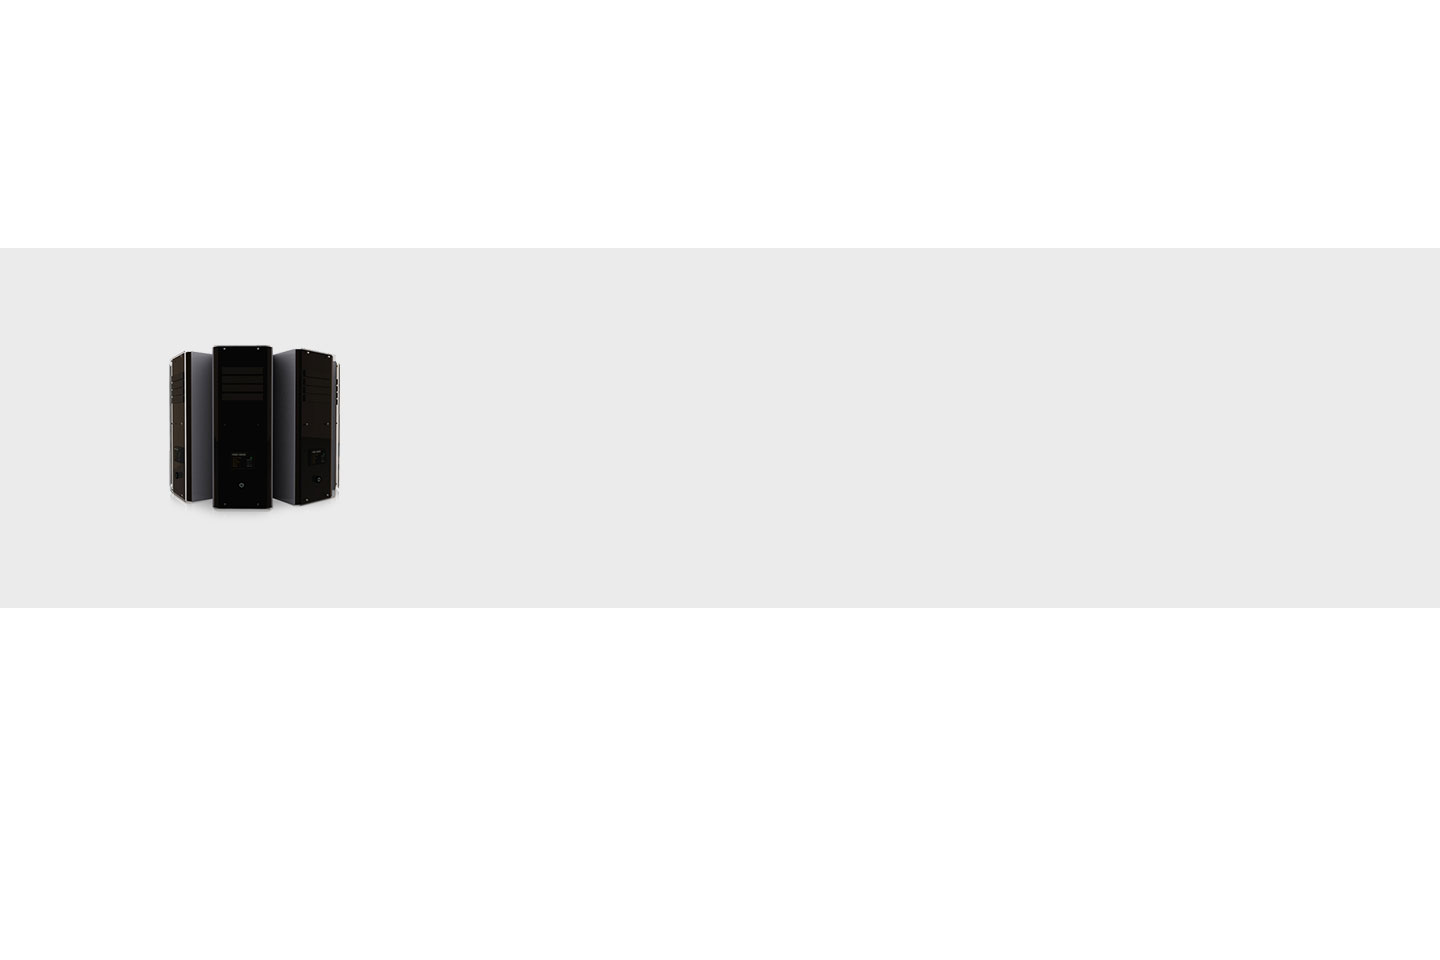
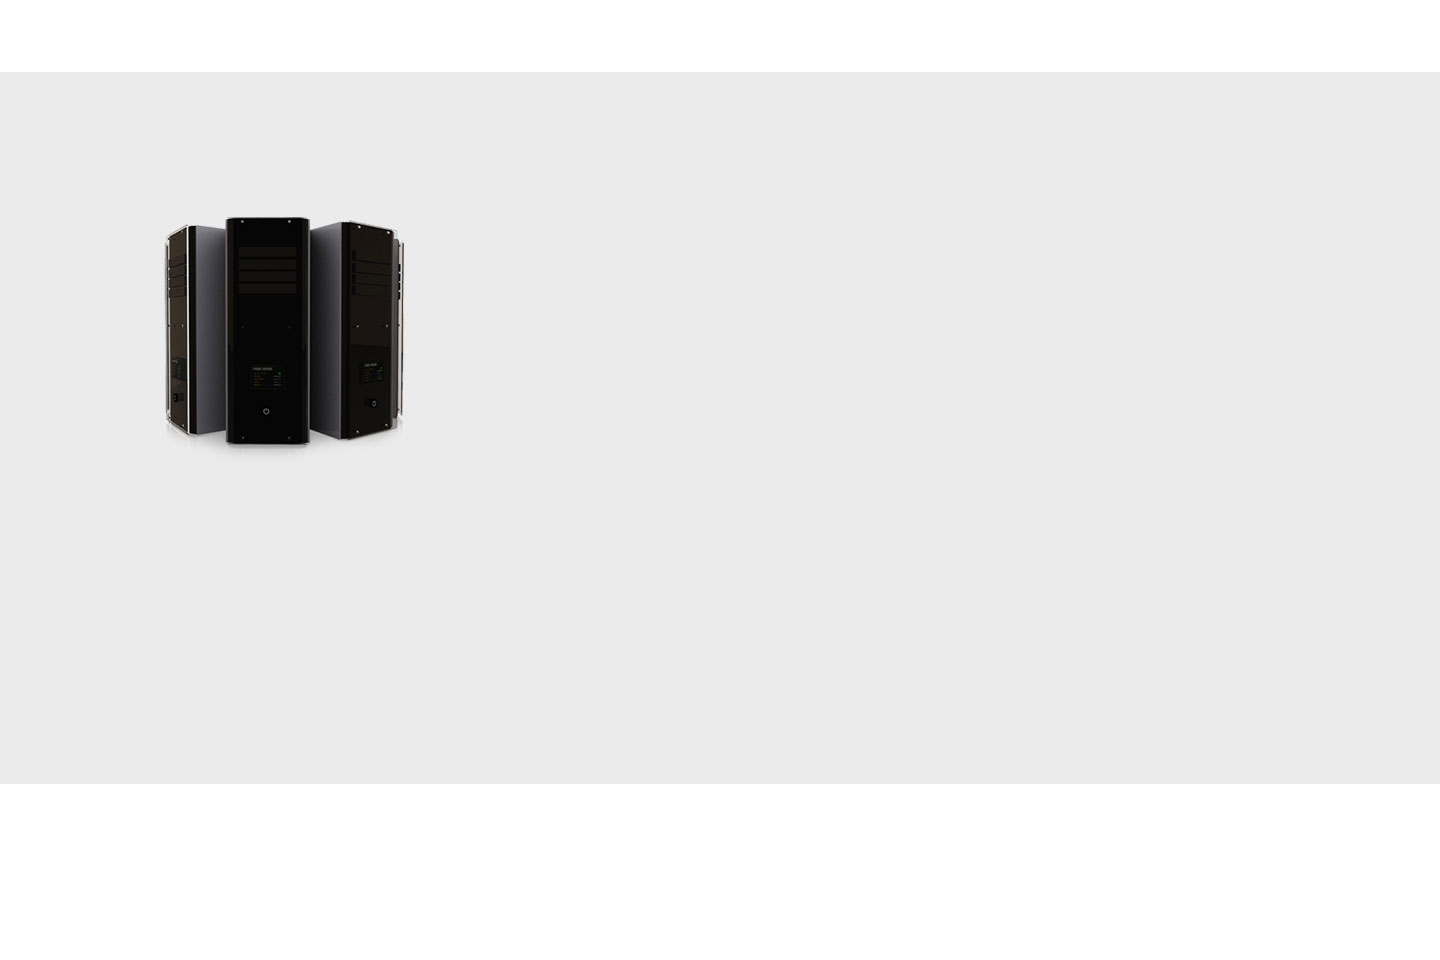
Store Tab

Changed region(s): [[0.0938, 0.2188, 0.2812, 0.5625]]

diff --git a/index.html b/index.html
@@ -42,7 +42,7 @@
                                 <div class="medium-6 columns">
                                     <h6>Bulk SMS Services</h6>
                                     <p>We offer self managed Bulk SMS through out SMS Dashboard. Sending SMS or Bulk SMS is cost effective and tailor made to suite your needs and requirements.</p>
-                                    <a href="telafricamobile-admin/">Log In</a><span> or </span><a href="telafricamobile-admin/">Register to Bulk SMS</a></p>
+                                    <a href="telafricamobile-admin/">Log In</a><span> or </span><a href="telafricamobile-admin/">Register to Bulk SMS</a>
                                 </div>
                             </li>
 
@@ -84,8 +84,8 @@
                         </ul>
                     </li>
                     <li><a href="#">CONTACT</a></li>
-                    <li><a href="#" class="button greenBG"><i class="icon_profile"></i>&nbsp;SMS Sign Up</a></li>
-                    <li><a href="#" class="button blueBG"><i class="icon_key"></i>&nbsp;SMS Log In</a></li>
+                    <li><a href="#" class="button greenBG text-white"><span class="icon_profile "></span>&nbsp;SMS Sign Up</a></li>
+                    <li><a href="#" class="button blueBG text-white"><span class="icon_key"></span>&nbsp;SMS Log In</a></li>
 
                 </ul>
             </div>
@@ -112,33 +112,32 @@
                         </div>
                         <div class="medium-6 columns">
                             <p><i>Telafrica brings you closer takes your message to your customers pockets with it’s bulk sms and voice services that allow you to do less planning and take more action to sell who you are. Sign up today!</i></p>
-                            <a href="#" class="button greenBG"><i class="icon_profile"></i>&nbsp;SMS Sign Up</a>
+                            <a href="#" class="button greenBG"><span class="icon_profile"></span>&nbsp;SMS Sign Up</a>
                         </div>
                         <div class="medium-6 columns"></div>
+                    </div>
+                </div>
             </li>
 
             <li class="background-parallax background-breathe">
                 <img alt="Slider Background" class="background-image" src="img/hero12.jpg">
                 <div class="overlay background-dark-grey"></div>
-
-                </div>
             </li>
         </ul>
 
     </section>
     <section class="section-fullwidth" style="background:#242424;">
         <!--begin testimonials-->
-
         <div class="wrap">
             <ul class="tabs group">
-                <li><a class="active" href="#/one">Bulk SMS Service</a></li>
-                <li><a href="#/two">Voice Services</a></li>
-                <li><a href="#/three">Device Store</a></li>
-                <li><a href="#/four">Fibre-to-Home</a></li>
+                <li><a class="active" href="#/BulkSMS">Bulk SMS Service</a></li>
+                <li><a href="#/VoiceServices">Voice Services</a></li>
+                <li><a href="#/DeviceStore">Device Store</a></li>
+                <li><a href="#/Fibre">Fibre-to-Home</a></li>
             </ul>
 
             <div id="content">
-                <section id="one">
+                <section id="BulkSMS">
                     <div class="row">
                         <div class="medium-2 columns">
                             <img src="img/icons/sms.png" alt="SMS" />
@@ -154,7 +153,7 @@
                         </div>
                     </div>
                 </section>
-                <section id="two">
+                <section id="VoiceServices">
                     <div class="row">
                         <div class="medium-2 columns">
                             <img src="img/icons/voice.png" alt="SMS" />
@@ -169,8 +168,106 @@
                         </div>
                     </div>
                 </section>
-                <section id="three">Tabs , consectetur adipisicing elit. Pariatur modi quod quo iure recusandae eligendi q.t, consectetur adipisicing elit. Pariatur modi quod quo iureq</section>
-                <section id="four">
+                <section id="DeviceStore">
+                    <div class="testimonials-slider">
+					   <ul class="slides">
+                           <li class="slide">
+                            <!-- Start Device -->
+                            <div class="medium-6 columns">
+                                <div class="medium-4 columns">
+                                    <img src="img/devices/G40/1.png" alt="G-40" />
+                                </div>
+                                <div class="medium-8 columns">
+                                    <h6 class="text-white">i-Life G40</h6>
+                                    <p>
+                                        <ul>
+                                            <li>Android  4.2 Device</li>
+                                            <li>4.2GHZ Snapdragon Processor</li>
+                                            <li>4GB Internal Storage</li>
+                                            <li>5MP Camera with Flash</li>
+                                            <li>Whats App, Skype and We-Chat  pre-installed in device</li>
+                                            <li><h4 class="text-white">R1, 300.00</h4></li>
+                                            <li><small>R85pm X 24 </small></li>
+                                            <li><a href="#" class="button  greenBG">View Device</a></li>
+                                        </ul>
+                                    </p>
+                                </div>
+                            </div>
+                        <!-- End Device -->
+                            <!-- Start Device -->
+                            <div class="medium-6 columns">
+                                <div class="medium-4 columns">
+                                    <img src="img/devices/G80/1.png" alt="G-80" />
+                                </div>
+                                <div class="medium-8 columns">
+                                    <h6 class="text-white">i-Life G80</h6>
+                                    <p>
+                                        <ul>
+                                            <li>Android  4.2 Device</li>
+                                            <li>4.2GHZ Snapdragon Processor</li>
+                                            <li>8GB Internal Storage</li>
+                                            <li>8MP Camera with Flash</li>
+                                            <li>Whats App, Skype and We-Chat  pre-installed in device</li>
+                                            <li><h4 class="text-white">R1, 300.00</h4></li>
+                                            <li><small>R85pm X 24 </small></li>
+                                            <li><a href="#" class="button  greenBG">View Device</a></li>
+                                        </ul>
+                                    </p>
+                                </div>
+                            </div>
+                            <!-- End Device -->
+                        </li>
+                <li class="slide">
+                            <!-- Start Device -->
+                            <div class="medium-6 columns">
+                                <div class="medium-4 columns">
+                                    <img src="img/devices/G40/1.png" alt="G-40" />
+                                </div>
+                                <div class="medium-8 columns">
+                                    <h6 class="text-white">i-Life T40</h6>
+                                    <p>
+                                        <ul>
+                                            <li>Android  4.1 Device</li>
+                                            <li>2.2GHZ Snapdragon Processor</li>
+                                            <li>4GB Internal Storage</li>
+                                            <li>5MP Camera with Flash</li>
+                                            <li>Whats App, Skype and We-Chat  pre-installed in device</li>
+                                            <li><h4 class="text-white">R1, 300.00</h4></li>
+                                            <li><small>R65pm X 24 </small></li>
+                                            <li><a href="#" class="button  greenBG">View Device</a></li>
+                                        </ul>
+                                    </p>
+                                </div>
+                            </div>
+                        <!-- End Device -->
+                            <!-- Start Device -->
+                            <div class="medium-6 columns">
+                                <div class="medium-4 columns">
+                                    <img src="img/devices/G80/1.png" alt="G-80" />
+                                </div>
+                                <div class="medium-8 columns">
+                                    <h6 class="text-white">i-Life G80</h6>
+                                    <p>
+                                        <ul>
+                                            <li>Android  3.2 Device</li>
+                                            <li>1.2GHZ Snapdragon Processor</li>
+                                            <li>2GB Internal Storage</li>
+                                            <li>5MP Camera with Flash</li>
+                                            <li>Whats App, Skype and We-Chat  pre-installed in device</li>
+                                            <li><h4 class="text-white">R900.00</h4></li>
+                                            <li><small>R55pm X 24 </small></li>
+                                            <li><a href="#" class="button  greenBG">View Device</a></li>
+                                        </ul>
+                                    </p>
+                                </div>
+                            </div>
+                            <!-- End Device -->
+                        </li>
+            </ul>
+        </div>
+                    <p>&nbsp;</p>
+                </section>
+                <section id="Fibre">
                     <div class="row">
                         <div class="medium-2 columns">
                             <img src="img/icons/fibre.png" alt="Fibre" />
@@ -186,7 +283,6 @@
                                     <li>Choose your monthly package</li>
                                     <li>Enjoy your internet experience and cheap calling rates</li>
                                 </ol>
-                            </p>
                             <a class="button expand greenBG">Register for Fibre Solutions&nbsp;</a>
                         </div>
                     </div>
@@ -203,24 +299,30 @@
             <div class="medium-12 columns text-center"><img src="img/icons/smartphone.png" alt="SMS"></div>
             <div class="medium-12 columns text-center"><h5>BULK SMS</h5></div>
                 <p class="text-center">
-                    Lorem ipsum dolor sit amet, consectetur adipiscing elit. Suspendisse viverra mauris eget tortor imperdiet vehicula. Proin egestas diam ac mauris molestie hendrerit. Quisque nec nisi tortor. Etiam at mauris sit amet magna suscipit hend merit non sed ligula. Vivamus purus odio, mollis. Lorem ipsum dolor sit amet, consectetur
-                </p>
+                    Lorem ipsum dolor sit amet, consectetur adipiscing elit. Suspendisse viverra mauris eget tortor imperdiet vehicula. Proin egestas diam ac mauris molestie hendrerit. Quisque nec nisi tortor. Etiam at mauris sit amet magna suscipit hend merit non sed ligula. Vivamus purus odio, mollis. Lorem ipsum dolor sit amet, consectetur </p>
+                    <div class="medium-12 columns text-center">
+                        <a href="#" class="button expand ">Log In or Sign Up</a>
+                    </div>
             </div>
 
             <div class="medium-4 columns">
                 <div class="medium-12 columns text-center"><img src="img/icons/voip.png" alt="Voice Solutions"></div>
                 <div class="medium-12 columns text-center"><h5>Voice Solutions</h5></div>
                 <p class="text-center">
-                    Lorem ipsum dolor sit amet, consectetur adipiscing elit. Suspendisse viverra mauris eget tortor imperdiet vehicula. Proin egestas diam ac mauris molestie hendrerit. Quisque nec nisi tortor. Etiam at mauris sit amet magna suscipit hend merit non sed ligula. Vivamus purus odio, mollis. Lorem ipsum dolor sit amet, consectetur
-                </p>
+                    Lorem ipsum dolor sit amet, consectetur adipiscing elit. Suspendisse viverra mauris eget tortor imperdiet vehicula. Proin egestas diam ac mauris molestie hendrerit. Quisque nec nisi tortor. Etiam at mauris sit amet magna suscipit hend merit non sed ligula. Vivamus purus odio, mollis. Lorem ipsum dolor sit amet, consectetur</p>
+                       <div class="medium-12 columns text-center">
+                        <a href="#" class="button expand greenBG">Inquire About Voice</a>
+                    </div>
             </div>
 
             <div class="medium-4 columns">
                 <div class="medium-12 columns text-center"><img src="img/icons/wireless.png" alt="SMS"></div>
                 <div class="medium-12 columns text-center"><h5>Fibre-to-Home</h5></div>
                 <p class="text-center">
-                    Lorem ipsum dolor sit amet, consectetur adipiscing elit. Suspendisse viverra mauris eget tortor imperdiet vehicula. Proin egestas diam ac mauris molestie hendrerit. Quisque nec nisi tortor. Etiam at mauris sit amet magna suscipit hend merit non sed ligula. Vivamus purus odio, mollis. Lorem ipsum dolor sit amet, consectetur
-                </p>
+                    Lorem ipsum dolor sit amet, consectetur adipiscing elit. Suspendisse viverra mauris eget tortor imperdiet vehicula. Proin egestas diam ac mauris molestie hendrerit. Quisque nec nisi tortor. Etiam at mauris sit amet magna suscipit hend merit non sed ligula. Vivamus purus odio, mollis. Lorem ipsum dolor sit amet, consectetur. </p>
+                       <div class="medium-12 columns text-center">
+                        <a href="#" class="button expand">Sign Up for Fibre</a>
+                    </div>
             </div>
 
 
@@ -270,9 +372,8 @@
                 <h6>Social pages</h6>
                 <ul>
                     <li><a href="http://www.facebook.com/" target="_blank">&nbsp;<i class="social_facebook">&nbsp;</i>&nbsp;telafricamobile<br></a></li>
-                    <li><a href="#http://www.twitter.com/" target="_blank">&nbsp;<a href="#"><i class="social_twitter"></i>&nbsp;@telafricamobile<br></a>
+                    <li><a href="#http://www.twitter.com/" target="_blank">&nbsp;<i class="social_twitter"></i>&nbsp;@telafricamobile<br></a>
                         <br>
-                        </a>
                     </li>
                     <li>
                         <a href="#">
@@ -291,8 +392,8 @@
             <div class="medium-4 columns">
                 <h6>Contact Us</h6>
                 <p class="push-bottom-small">
-                    <div>The Willow Office Park, Office 276</div>
-                    <div>George Road, Erand Gardens,Midrand 1685</div>
+                    <span>The Willow Office Park, Office 276</span>
+                    <span>George Road, Erand Gardens, Midrand 1685</span>
                 </p>
                 <p>
                     <i class="icon icon_phone"></i>&nbsp;+27 81 900 0000

diff --git a/css/style.css b/css/style.css
@@ -57,8 +57,8 @@ input:focus {
 /********** SPACING **********/
 
 section {
-    padding-top: 88px;
-    padding-bottom: 99px;
+    padding-top: 60px;
+    padding-bottom: 60px;
 }
 .section-small {
     padding-top: 44px;
@@ -82,7 +82,7 @@ section {
     position: absolute;
 }
 .section-fullwidth {
-    padding: 88px 66px;
+    padding: 10px 66px;
 }
 .pad-bottom {
     padding-top: 0px;
@@ -258,7 +258,6 @@ code {
 }
 .hero-slider .slides li .slide-content img {
     max-height: 500px;
-    position:
 }
 .hero-slider .flex-direction-nav a {
     height: 60px;
@@ -604,11 +603,11 @@ ul {
 .button {
     overflow: hidden;
     color: #fff;
-    border-radius: 5px;
-    padding: 20px 25px 22px 25px;
+    border-radius: 3px;
+    padding: 10px 10px 10px 10px;
     text-transform: uppercase;
     background: #0070a3;
-    font-size: 14px;
+    font-size: 12px;
     letter-spacing: 1px;
     text-align: center;
     font-weight: bold;
@@ -1409,6 +1408,8 @@ nav .menu li a {
     -webkit-transition: all .2s ease;
     -moz-transition: all .2s ease;
 }
+
+
 nav.nav-dark .menu li a,
 nav.nav-transparent .menu a {
     color: #fff;
@@ -2348,4 +2349,9 @@ footer.footer-alt span.sub .icon_heart {
 
 .list-divided li {
     border-top: 1px solid #cecece;
+}
+
+
+#Fibre li {
+    font-size:12px;
 }

diff --git a/css/tabs.css b/css/tabs.css
@@ -1,7 +1,7 @@
 .wrap {
     margin: 0 auto;
     width: 100%;
-    margin-top:-170px;
+    margin-top:-92px;
 }
 ul.tabs {
 	width: 100%;
@@ -90,6 +90,12 @@ ul.tabs li a.active {
 #three {
 
 }
-#four {
+#DeviceStore ul  {
+    font-size: 12px;
+}
 
+#DeviceStore small  {
+    font-size: 10px;
+    margin-top:-10px;
+    display: block;
 }

diff --git a/js/scripts.js b/js/scripts.js
@@ -441,7 +441,7 @@ $(window).load(function () {
 
 $(window).load(function () {
     var tabs =  $(".tabs li a");
-    var content = "#one";
+    var content = "#BulkSMS";
     tabs.removeClass("active");
     $(".tabs li:nth-child(1) a").addClass("active");
     $("#content").find('section').hide();
